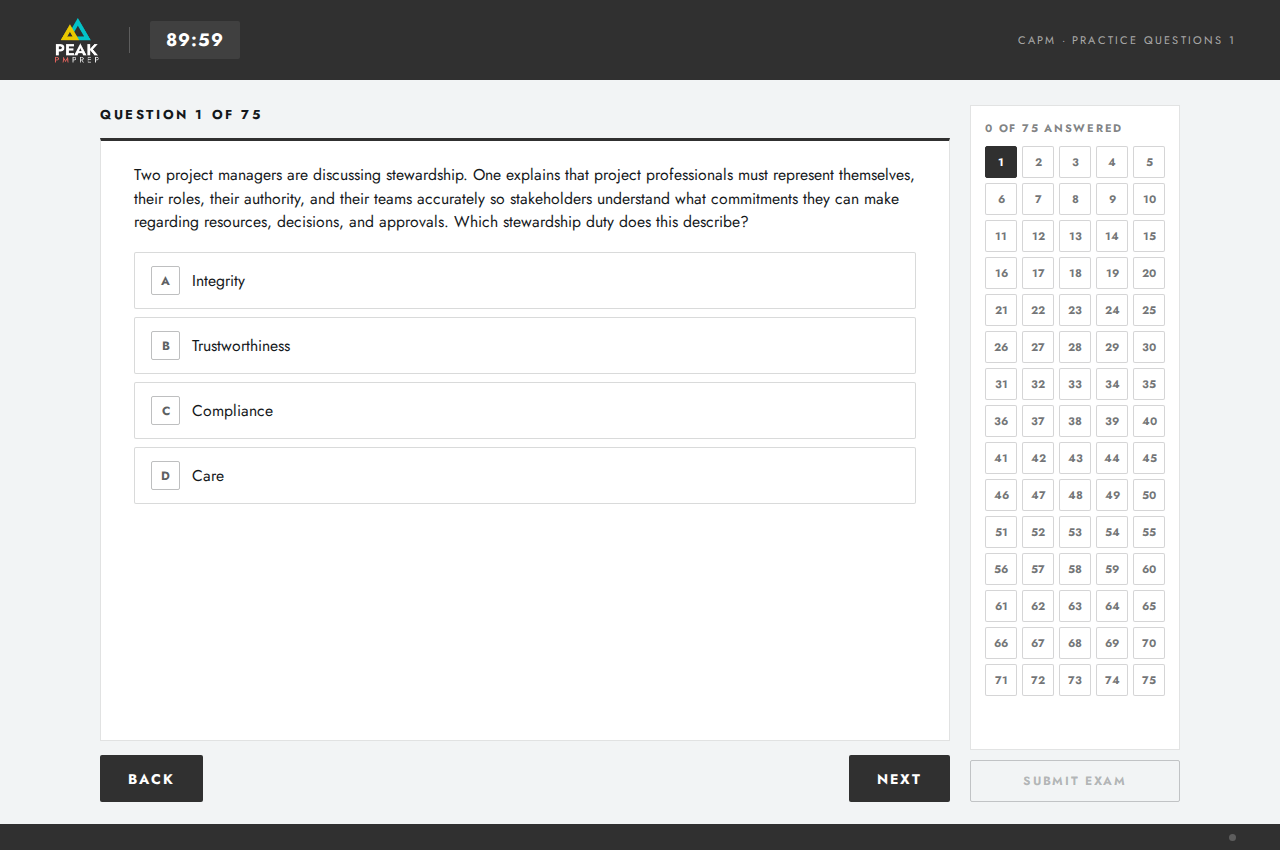
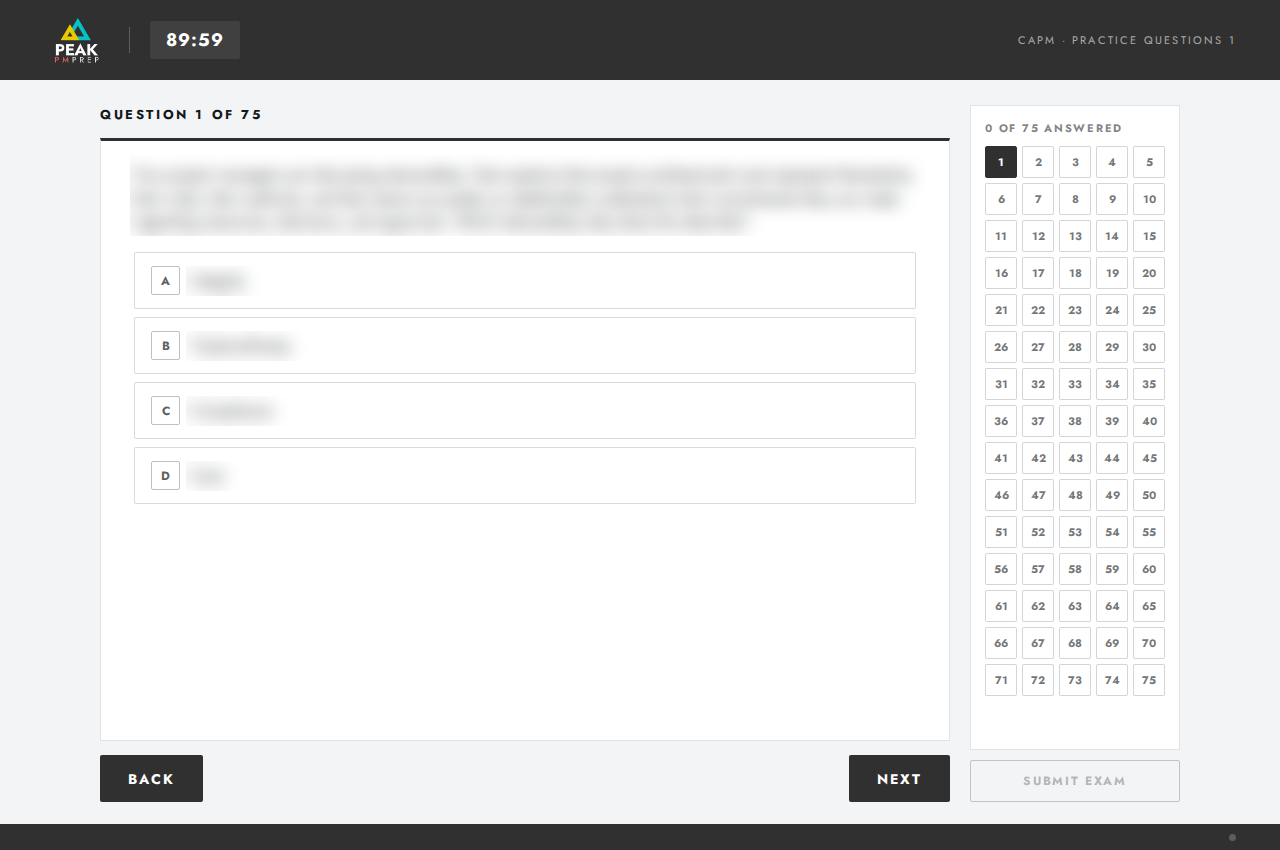
Add CAPM results and Larch & Lichen screens; retitle to Education Consultant
Show the CAPM practice set's domain-scoring results page and blur the
question text on the question screen. Add Larch & Lichen home page and
life-cycle explorer screenshots with details of the interactive lessons.
Update the hero and About card title to Education Consultant.

Claude-Session: https://claude.ai/code/session_01R94oowVgqPqQnsqqshz82u

diff --git a/index.html b/index.html
@@ -57,7 +57,7 @@
     <div style="position:relative;z-index:5;padding:0 clamp(24px,7vw,90px);max-width:940px;">
       <div style="display:inline-flex;align-items:center;gap:10px;background:rgba(255,255,255,.06);border:1px solid rgba(255,255,255,.16);padding:7px 15px;border-radius:100px;margin-bottom:28px;">
         <span style="width:7px;height:7px;border-radius:50%;background:#9ed94d;box-shadow:0 0 0 3px rgba(158,217,77,.22);"></span>
-        <span style="font-size:12.5px;font-weight:600;letter-spacing:0.03em;color:#dbe4f2;">Instructional Designer &amp; eLearning Developer</span>
+        <span style="font-size:12.5px;font-weight:600;letter-spacing:0.03em;color:#dbe4f2;">Education Consultant · Learning Design &amp; eLearning</span>
       </div>
       <h1 style="margin:0;font-family:'Bricolage Grotesque',sans-serif;font-weight:700;color:#ffffff;font-size:clamp(37px,5.7vw,72px);line-height:1.01;letter-spacing:-0.038em;text-wrap:balance;">Human-Centred Learning Design, Powered by Technology</h1>
       <p style="margin:26px 0 0;font-size:clamp(17px,2.1vw,21px);line-height:1.55;color:#aeb9d4;max-width:560px;font-weight:500;">I create eLearning and training experiences that make complex information easier to understand, apply, and remember , using instructional design, storytelling, and emerging AI tools.</p>
@@ -192,7 +192,7 @@
           <div style="position:relative;font-family:'Bricolage Grotesque',sans-serif;font-weight:800;font-size:clamp(64px,9vw,104px);line-height:.9;letter-spacing:-0.05em;">NN</div>
           <div style="position:relative;">
             <div style="font-family:'Bricolage Grotesque',sans-serif;font-weight:700;font-size:clamp(20px,2.4vw,26px);letter-spacing:-0.02em;margin-bottom:6px;">Nicole Neutzling</div>
-            <div style="font-size:13px;letter-spacing:0.14em;text-transform:uppercase;color:#ffb05a;font-weight:700;margin-bottom:18px;">Instructional Designer</div>
+            <div style="font-size:13px;letter-spacing:0.14em;text-transform:uppercase;color:#ffb05a;font-weight:700;margin-bottom:18px;">Education Consultant</div>
             <div style="display:flex;flex-direction:column;gap:9px;font-size:14.5px;line-height:1.4;color:rgba(255,255,255,.86);">
               <span>◆ From the classroom to learning design</span>
               <span>◆ Health, certification &amp; community learning</span>
@@ -363,6 +363,7 @@ class Component extends DCLogic {
       approach: 'Treat AI as a development partner, not a shortcut: I set the learning and assessment requirements, AI accelerated the build, and SME review gated every release.',
       approachPoints: [
         'Built exam-realistic practice: countdown timer with auto-submit, question grid for free navigation, unlimited attempts, and a downloadable PDF of feedback for every question',
+        'Supported multiple item types (multiple choice, choose-two, table, and clickable network-diagram hotspots) and coded domain scoring that maps every question to its exam domain and shows performance against target',
         'Structured a progression from baseline quiz to weekly quizzes, practice sets, and two full-length simulators, with guidance on reviewing results between attempts',
         'Iterated on SME feedback: reserving blue for correct answers, a segmented progress bar, higher-contrast text for accessibility, layouts that fit a laptop screen, and separate pre- and post-course packages',
         'Managed questions in a central item bank with an SME review workflow before each build',
@@ -374,8 +375,8 @@ class Component extends DCLogic {
       status: 'The assessment suite is in use in the 2026 cohort. The Application Builder has gone through structured SME review ahead of release. Full versions are proprietary to Peak PMP Prep; a short sample is available on request.',
       demonstrates: 'Advanced, responsible use of AI in instructional design: building custom assessment applications beyond what authoring tools allow, translating SME feedback into precise design changes, keeping accuracy and accessibility at the centre, and packaging custom builds for real LMS delivery.',
       shots: [
-        { img: 'images/peak-capm-start.png', label: 'CAPM practice set — start screen', pos: 'center' },
         { img: 'images/peak-capm-question.png', label: 'Timed question view with question grid', pos: 'left top' },
+        { img: 'images/peak-capm-results.png', label: 'Results with domain scoring', pos: 'center top' },
       ],
       links: [
         { type: 'website', label: 'Visit the Peak PMP Prep website', url: 'https://peakpmprep.com/' },
@@ -409,7 +410,7 @@ class Component extends DCLogic {
       title: 'Larch and Lichen — Place-Conscious Learning for the Columbia Valley',
       context: 'Own venture · Grades 3–5',
       outcome: 'Educator resources and interactive online lessons rooted in local landscapes',
-      tools: ['AI-supported design', 'Interactive lessons', 'Educator resources', 'Place-based learning'],
+      tools: ['Claude Design', 'Claude Code', 'HTML & JavaScript', 'AI illustration & audio'],
       overview: 'Larch and Lichen is my own venture: place-conscious learning resources and online lessons for students in grades 3, 4, and 5 in the Columbia Valley. I use AI to create both educator resources and interactive online lessons that help young learners explore and understand the natural environment around them.',
       challenge: 'Most environmental education resources are generic. Students in the Columbia Valley learn best when lessons connect to the forests, wetlands, wildlife, and landscapes they actually live in. As a solo creator, I also needed a way to produce high-quality, age-appropriate lessons and matching teacher materials efficiently.',
       role: 'I lead everything: learning design, content, and development. I use AI tools to accelerate production of educator guides and learner-facing interactive lessons, then review and refine everything for accuracy, local relevance, and the needs of grade 3–5 learners and their teachers.',
@@ -417,13 +418,18 @@ class Component extends DCLogic {
       approachPoints: [
         'Designed place-conscious lessons tied to the natural environment of the Columbia Valley',
         'Created paired resources: educator materials and learner-facing interactive online lessons',
+        'Built interactive lesson moments: a clickable salmon life-cycle explorer, a swim-upstream game, narrated audio, and a printable field journal',
+        'Organized content into four units per season, each with an educator guide and short online lessons',
         'Used AI to speed up drafting and development, with careful human review for accuracy and age-appropriateness',
         'Wrote for grade 3–5 reading levels and attention spans',
       ],
       statusLabel: 'Current status',
       status: 'Larch and Lichen is an active, growing project, with new lessons and educator resources in development.',
       demonstrates: 'Entrepreneurial instructional design, designing for young learners and their teachers, place-based learning, and practical use of AI to produce engaging resources as a solo creator.',
-      shots: [],
+      shots: [
+        { img: 'images/larch-home.png', label: 'Larch & Lichen Learning — home page', pos: 'center top' },
+        { img: 'images/larch-lifecycle.png', label: 'Interactive sockeye life-cycle explorer', pos: 'center' },
+      ],
       links: [],
     },
     {
